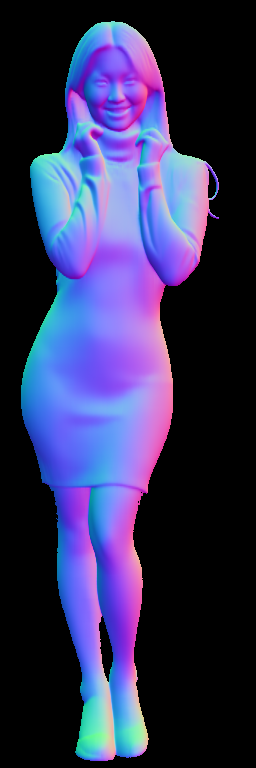
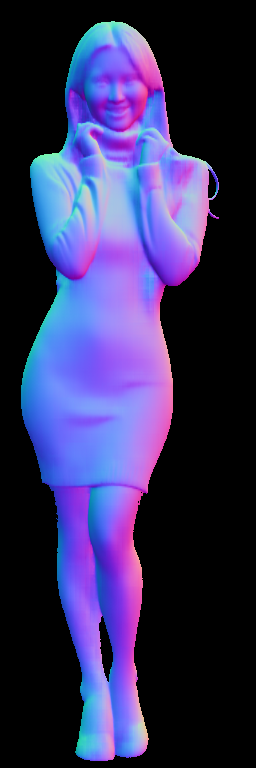
OOM

diff --git a/inference.py b/inference.py
@@ -31,7 +31,11 @@ import cv2
 from FaceProcess import FaceProcessor
 from normalmap_vis import Config, ModelManager, ImageProcessor
 
-
+import gc
+import psutil
+import GPUtil
+import os
+os.environ['PYTORCH_CUDA_ALLOC_CONF'] = 'expandable_segments:True'
 
 class Inference:
     def __init__(self, args, config):
@@ -46,7 +50,25 @@ class Inference:
         
         self.subject = os.path.basename(args.input_path).split('.')[0]
         self.writer = SummaryWriter(f'./tbruns/{self.subject}')
-    
+
+    def log_memory_usage(self, step):
+        process = psutil.Process()
+        gpu = GPUtil.getGPUs()[0]
+        
+        cpu_memory = process.memory_info().rss / 1e9  # Convert to GB
+        gpu_memory = gpu.memoryUsed / 1e3  # Convert to GB
+        
+        torch.cuda.synchronize()
+        torch.cuda.empty_cache()
+        allocated = torch.cuda.memory_allocated() / 1e9  # Convert to GB
+        reserved = torch.cuda.memory_reserved() / 1e9  # Convert to GB
+        
+        print(f"Step {step} Memory Usage:")
+        print(f"  CPU Memory: {cpu_memory:.2f} GB")
+        print(f"  GPU Memory: {gpu_memory:.2f} GB")
+        print(f"  Torch Allocated: {allocated:.2f} GB")
+        print(f"  Torch Reserved: {reserved:.2f} GB")
+        
     def init_modules_pipelines(self):
         self.init_modules()
         self.init_pipeline()
@@ -54,6 +76,17 @@ class Inference:
         self.init_smpl()
         self.init_renderer()
         self.init_losses()
+
+        # Convert models to half precision
+        self.vae = self.vae.to(dtype=self.weight_dtype)
+        self.reference_unet = self.reference_unet.to(dtype=self.weight_dtype)
+        self.denoising_unet = self.denoising_unet.to(dtype=self.weight_dtype)
+        self.semantic_guider = self.semantic_guider.to(dtype=self.weight_dtype)
+        self.normal_guider = self.normal_guider.to(dtype=self.weight_dtype)
+
+        torch.backends.cuda.sdp_kernel(enable_flash=True, enable_math=False, enable_mem_efficient=True)
+
+
 
     def init_normalize(self):
         self.processor = ImageProcessor()
@@ -160,7 +193,7 @@ class Inference:
         # processor = ImageProcessor()
         normal_map = self.processor.process_image(
             self.args.input_path,
-            normal_model_name="1b",
+            normal_model_name="0.3b",
             seg_model_name="fg-bg-1b"  
         )
         normal_map_vis = self.processor.visualize_normal_map(normal_map)
@@ -269,7 +302,7 @@ class Inference:
             img = Image.fromarray((cond_normal.detach().cpu().numpy() * 255).astype(np.uint8).transpose(1,2,0))
             normal_map = self.processor.process_the_image(
                 img,
-                normal_model_name="1b",
+                normal_model_name="0.3b",
                 seg_model_name="fg-bg-1b"
             )
             normal_map_vis = self.processor.visualize_normal_map(normal_map)
@@ -352,10 +385,17 @@ class Inference:
 
     def run(self):
         # self.prepare_reference_image()
-        self.initialize_nvs()
+
         
         # Initialize SMPL-X parameters
         smpl_dict = self.smpl_estimator.estimate_smpl(self.ref_rgb_pil)
+        # del self.smpl_estimator
+
+        self.log_memory_usage("Initial")
+        self.initialize_nvs()
+        self.log_memory_usage("After NVS Init")
+
+        self.log_memory_usage("After SMPL Estimation")
         self.optimed_pose = smpl_dict["body_pose"].requires_grad_(True)
         self.optimed_trans = smpl_dict["trans"].requires_grad_(True)
         self.optimed_betas = smpl_dict["betas"].requires_grad_(True)
@@ -364,6 +404,7 @@ class Inference:
         self.optimizer_smpl = torch.optim.Adam([
             self.optimed_pose, self.optimed_trans, self.optimed_betas, self.optimed_orient
         ], lr=1e-2, amsgrad=True)
+        
         
         self.scheduler_smpl = torch.optim.lr_scheduler.ReduceLROnPlateau(
             self.optimizer_smpl,
@@ -387,8 +428,10 @@ class Inference:
             final_iter = iter == len(self.config.smplx_guidance_scales) - 1
             
             nvs_data = self.process_nvs_data()
+            self.log_memory_usage(f"Iteration {iter} - After NVS Data Processing")
             
             smpl_verts, smpl_joints_3d = self.adaptive_refinement(nvs_data)
+            self.log_memory_usage(f"Iteration {iter} - After Adaptive Refinement")
             
             if final_iter:
                 reconstructed_mesh = self.multi_scale_reconstruction(
@@ -396,11 +439,14 @@ class Inference:
                     scales=self.config.reconstruction_scales
                 )
                 self.smpl_verts = reconstructed_mesh
+                self.log_memory_usage(f"Iteration {iter} - After Multi-Scale Reconstruction")
             
             with torch_gc_context():
                 self.update_nvs(final_iter)
+                self.log_memory_usage(f"Iteration {iter} - After NVS Update")
         
         self.save_results()
+        self.log_memory_usage("Final")
         print(f"【End】{self.args.input_path}")
 
     def tensor2variable(self, tensor):

diff --git a/normalmap_vis.py b/normalmap_vis.py
@@ -7,7 +7,7 @@ from torchvision import transforms
 
 class Config:
     SEG_CHECKPOINTS_DIR = '/media/oem/12TB/sapiens/pretrain/sapiens_lite_host/torchscript/seg/checkpoints/sapiens_1b/'  
-    CHECKPOINTS_DIR = '/media/oem/12TB/sapiens/pretrain/sapiens_lite_host/torchscript/normal/checkpoints/sapiens_1b/'
+    CHECKPOINTS_DIR = '/media/oem/12TB/sapiens/pretrain/sapiens_lite_host/torchscript/normal/checkpoints/sapiens_0.3b/'
 
     CHECKPOINTS = {
         "0.3b": "sapiens_0.3b_normal_render_people_epoch_66_torchscript.pt2",
@@ -42,15 +42,18 @@ class ModelManager:
         return torch.nn.functional.interpolate(output, size=(height, width), mode="bilinear", align_corners=False)
 
 class ImageProcessor:
-    def __init__(self):
+    def __init__(self,normal_model_name: str, seg_model_name: str):
         self.transform_fn = transforms.Compose([
             transforms.Resize((1024, 768)),
             transforms.ToTensor(),
             transforms.Normalize(mean=[123.5/255, 116.5/255, 103.5/255], std=[58.5/255, 57.0/255, 57.5/255]),
         ])
-
-        self.normal_model = ModelManager.load_model(Config.CHECKPOINTS["1b"])
-        self.seg_model = ModelManager.load_model(Config.SEG_CHECKPOINTS["fg-bg-1b"], is_seg_model=True)
+        if normal_model_name == None:
+            normal_model_name = "1b"
+        if seg_model_name == None:
+            seg_model_name = "fg-bg-1b"
+        self.normal_model = ModelManager.load_model(Config.CHECKPOINTS[normal_model_name])
+        self.seg_model = ModelManager.load_model(Config.SEG_CHECKPOINTS[seg_model_name], is_seg_model=True)
 
     def process_image(self, image_path: str, normal_model_name: str, seg_model_name: str):
         image = Image.open(image_path).convert("RGB")

diff --git a/src/pipelines/pipeline_magicman.py b/src/pipelines/pipeline_magicman.py
@@ -337,6 +337,10 @@ class MagicManPipeline(DiffusionPipeline):
         height = height or self.unet.config.sample_size * self.vae_scale_factor
         width = width or self.unet.config.sample_size * self.vae_scale_factor
 
+
+        self.reference_unet.enable_gradient_checkpointing()
+        self.denoising_unet.enable_gradient_checkpointing()
+
         device = self._execution_device
 
         do_classifier_free_guidance = guidance_scale > 1.0
